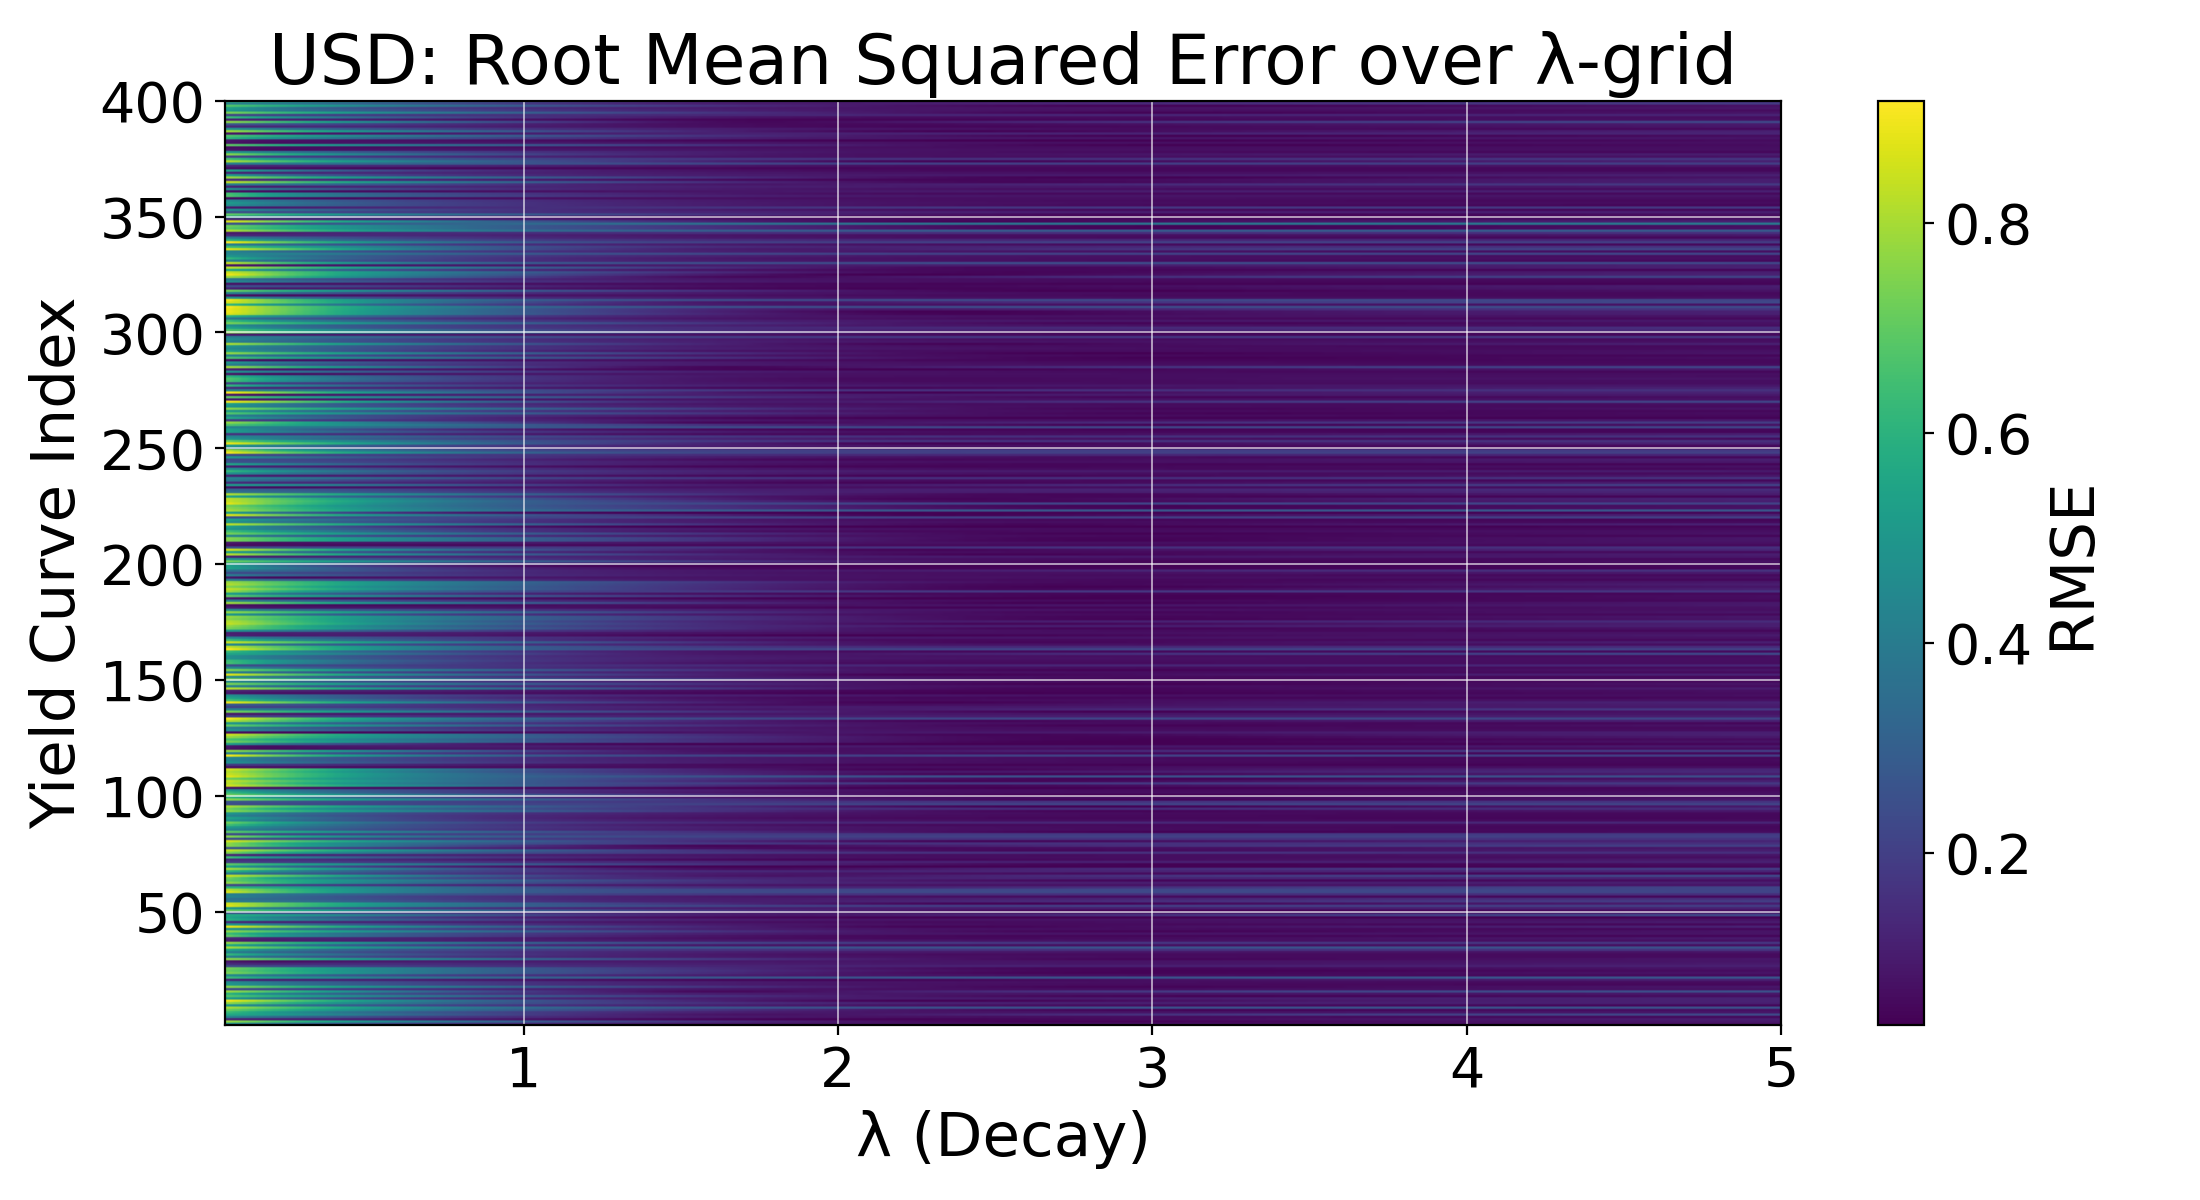
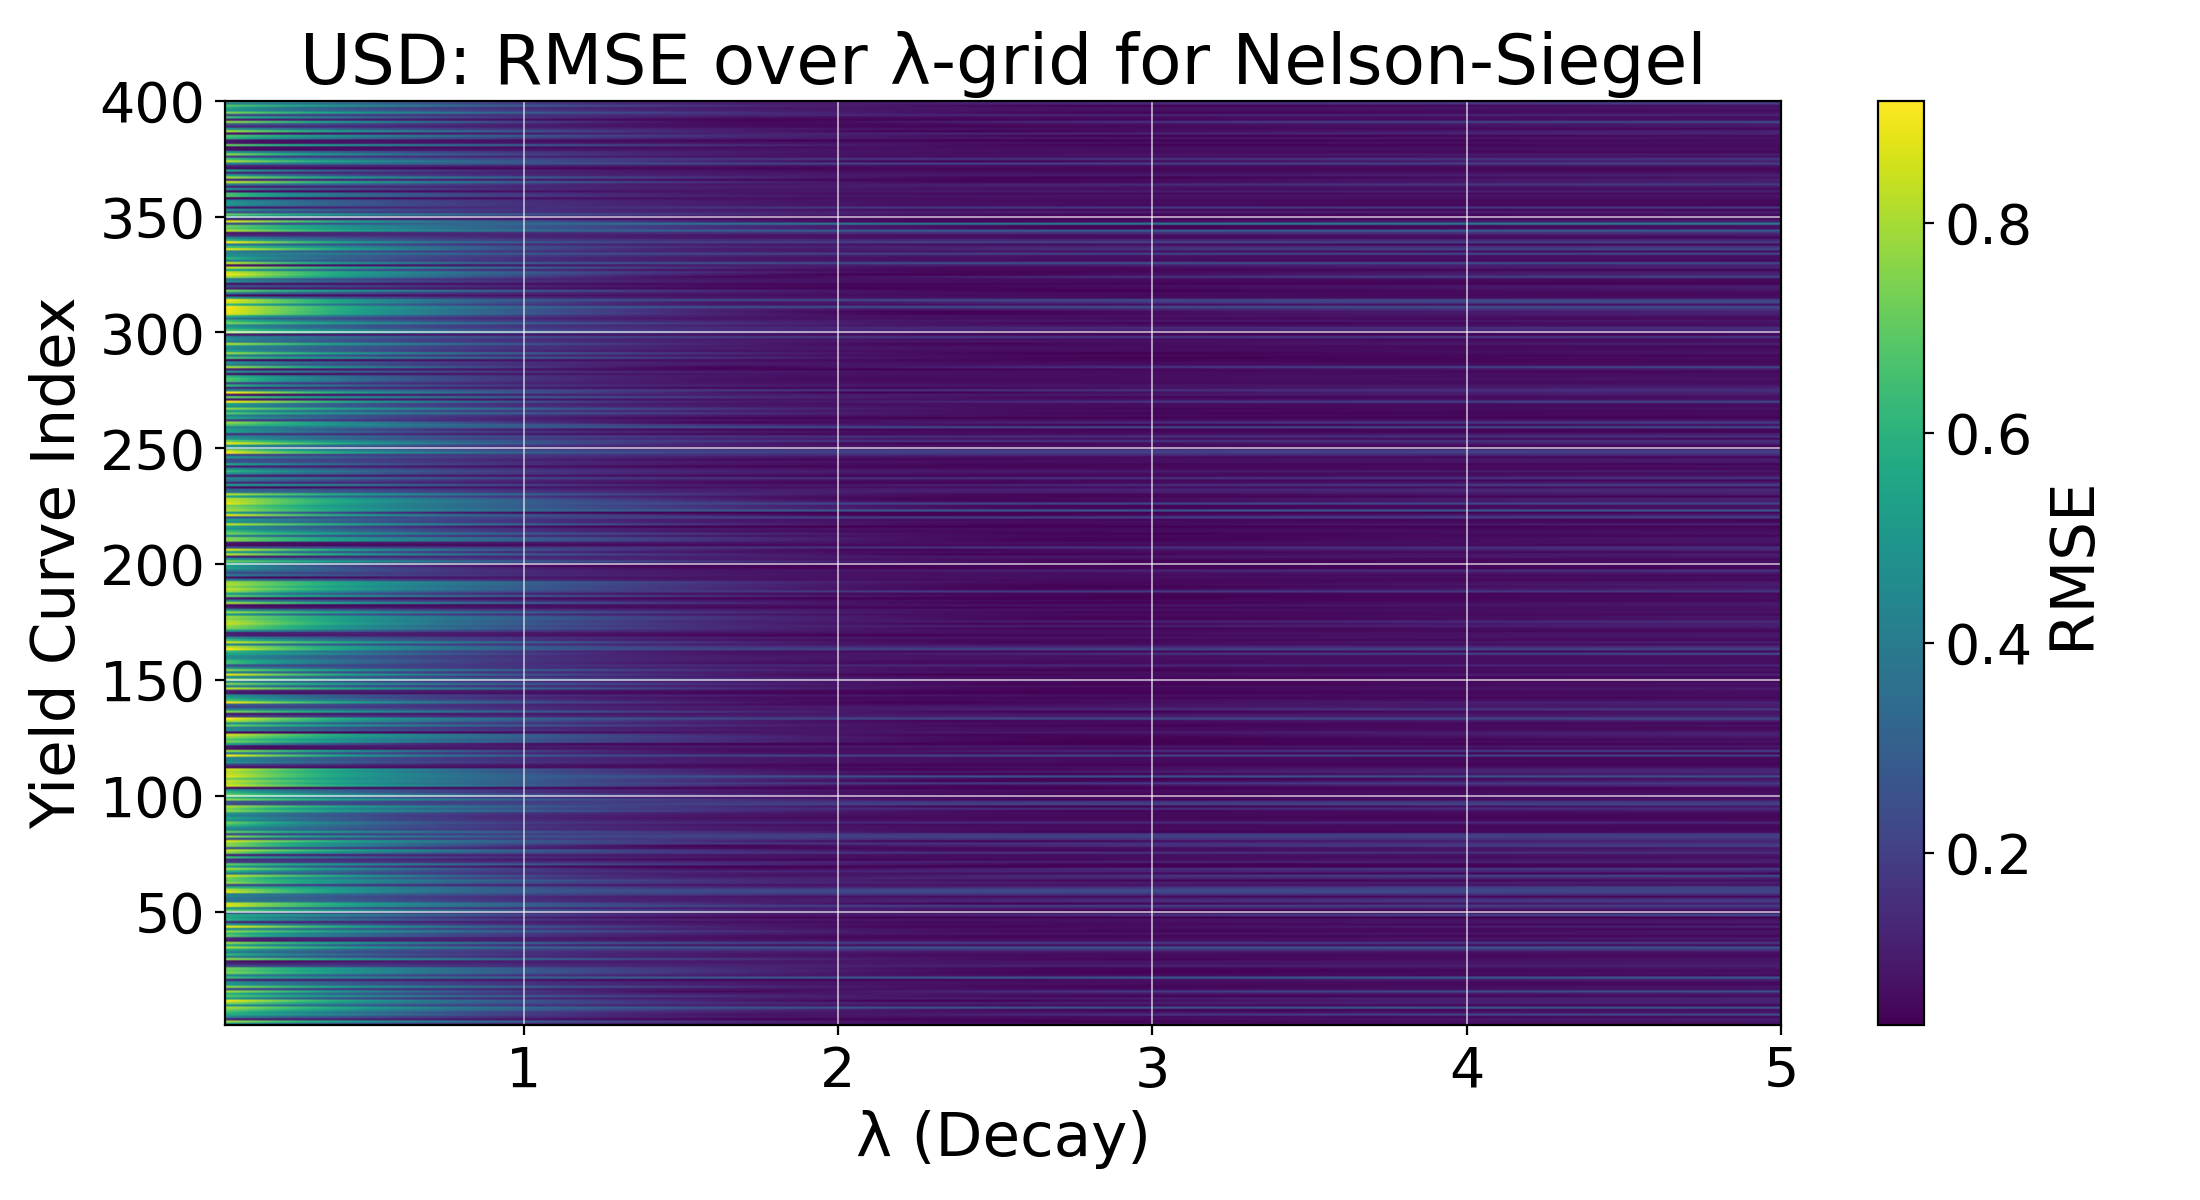
just commit

Changed region(s): [[0.1236, 0.0308, 0.8036, 0.0925]]

diff --git a/Chapter 2/parametric_models/yplot_ns_grid_search.py b/Chapter 2/parametric_models/yplot_ns_grid_search.py
@@ -91,7 +91,7 @@ def plot_rmse_heatmap(lambds: np.ndarray, err_mat: np.ndarray, title: str, save_
     )
     ax.set_xlabel("λ (Decay)", fontsize=22)
     ax.set_ylabel("Yield Curve Index", fontsize=22)
-    ax.set_title(f"{title}: Root Mean Squared Error over λ-grid", fontsize=25)
+    ax.set_title(f"{title}: RMSE over λ-grid for Nelson-Siegel", fontsize=25)
     ax.tick_params(axis="both", which="both", labelsize=20)
     
     cbar = plt.colorbar(im, ax=ax)
